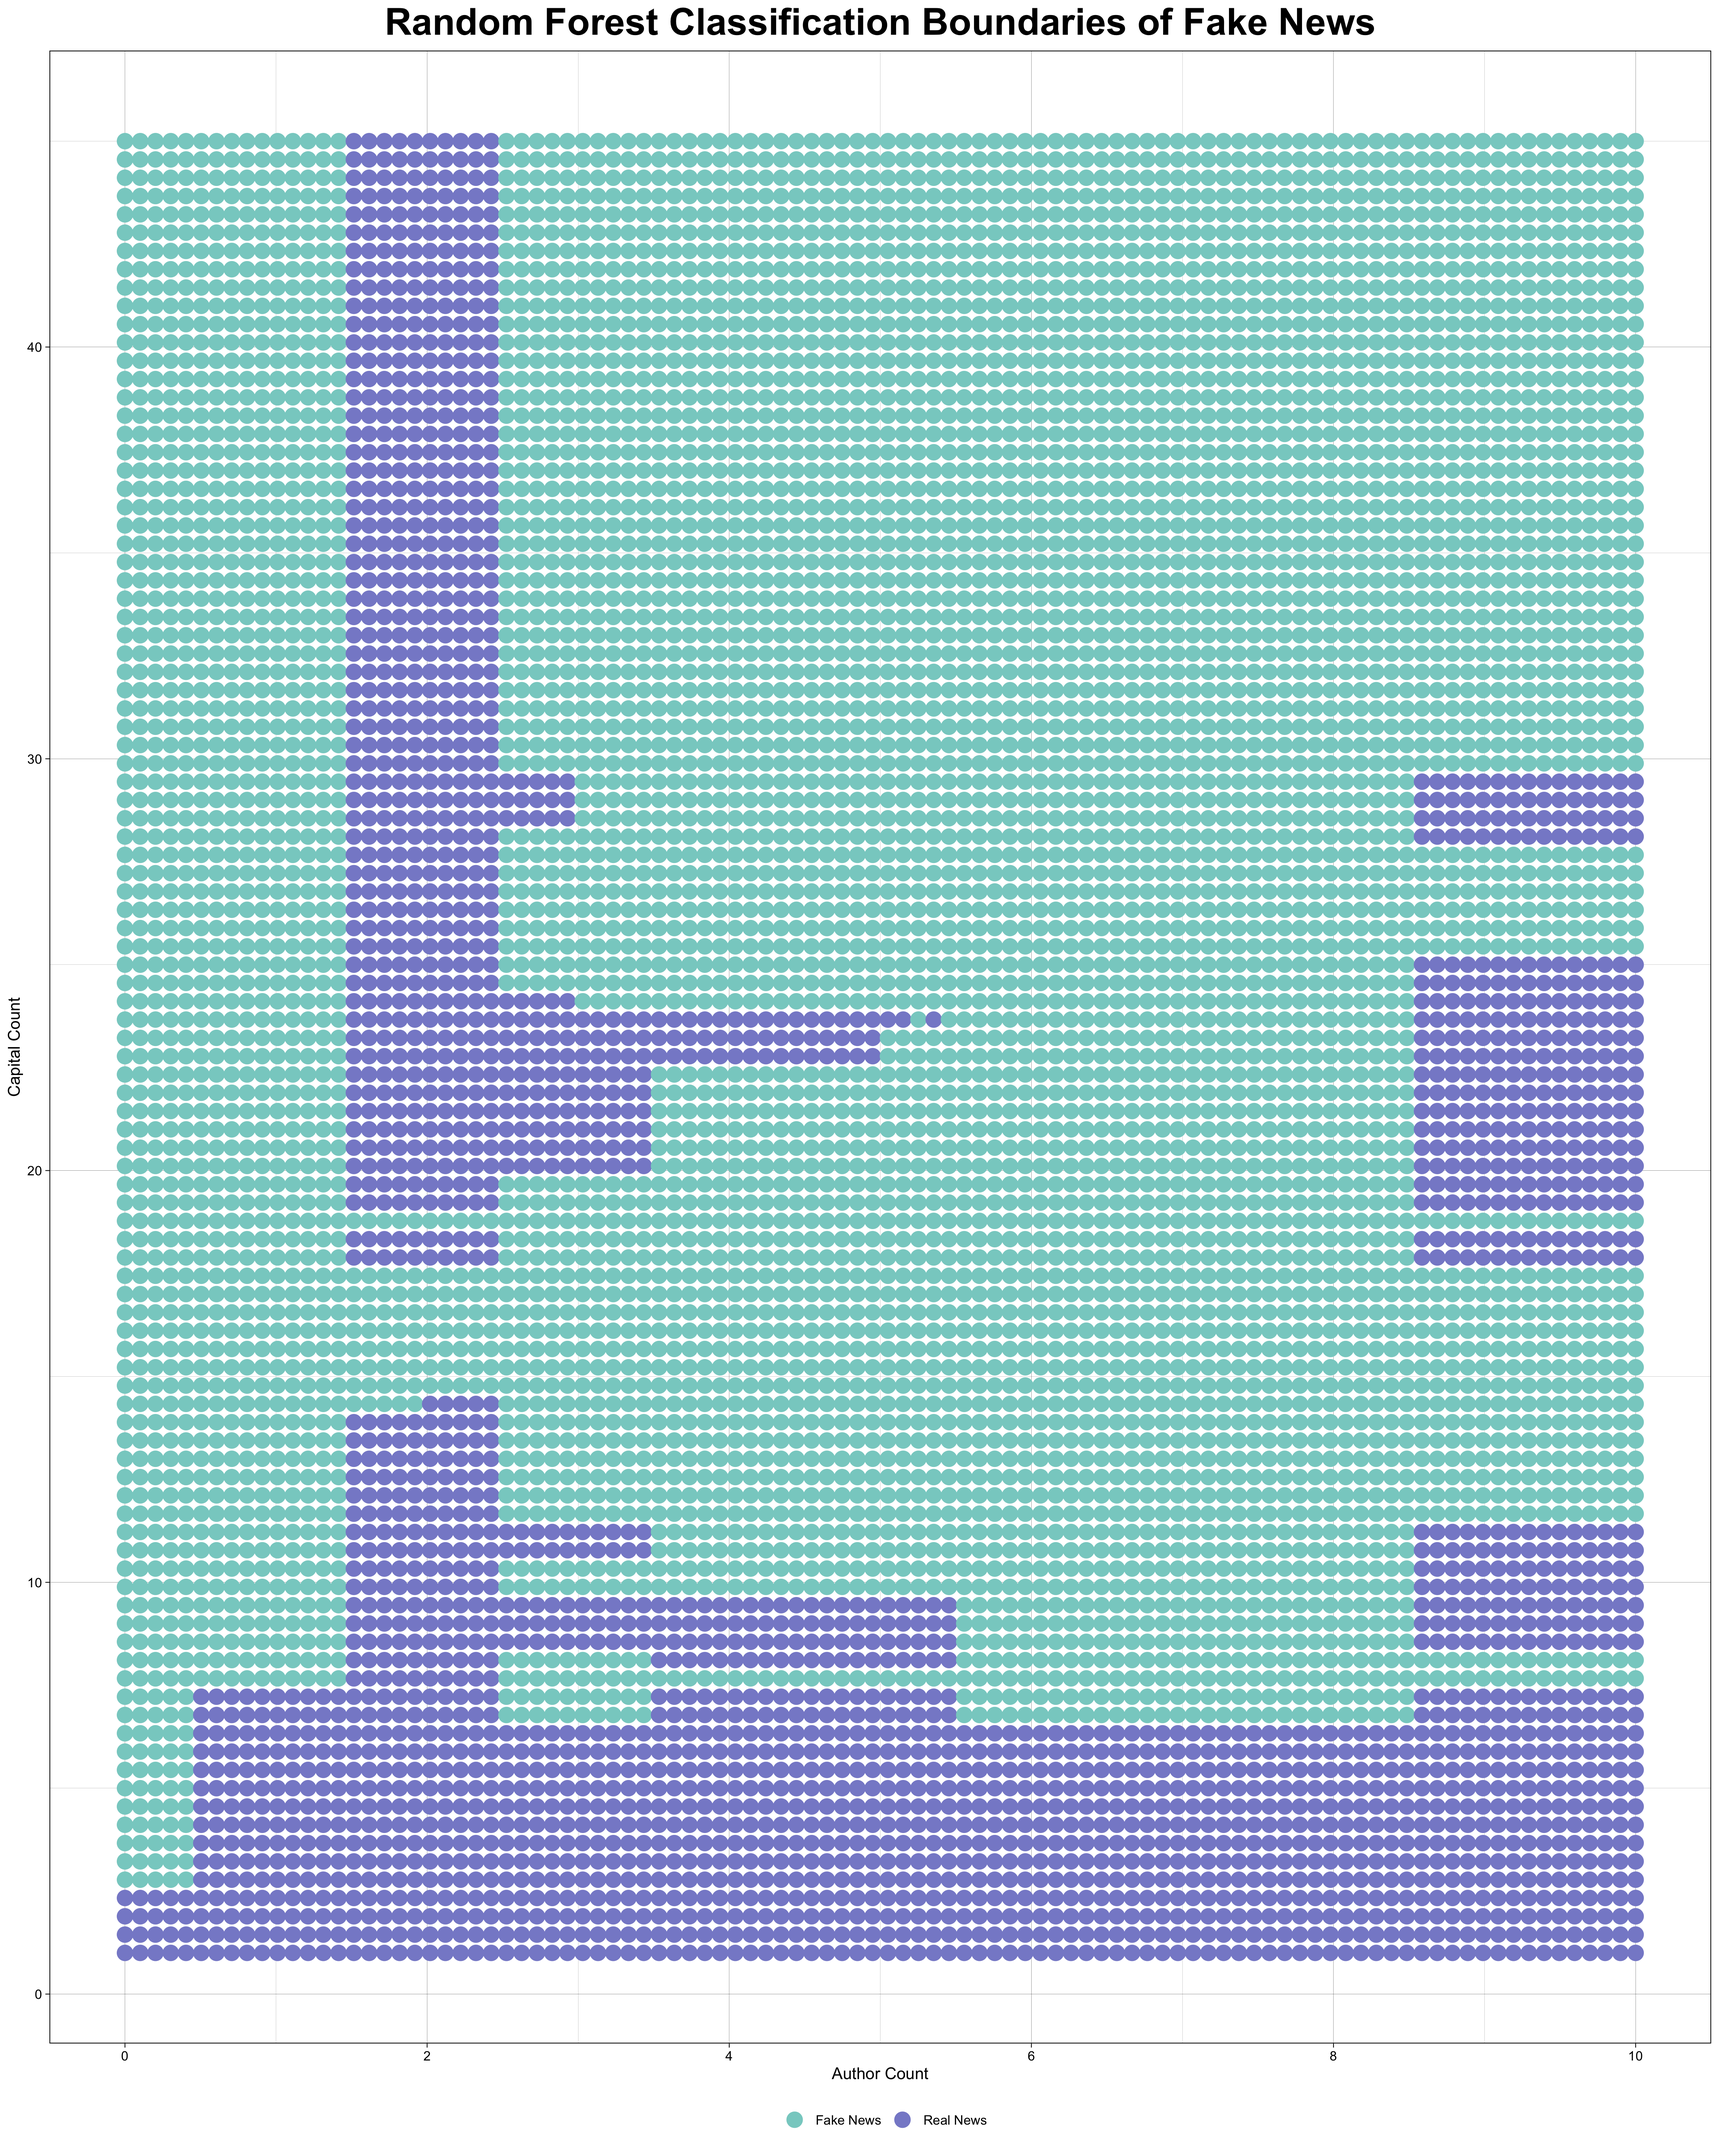
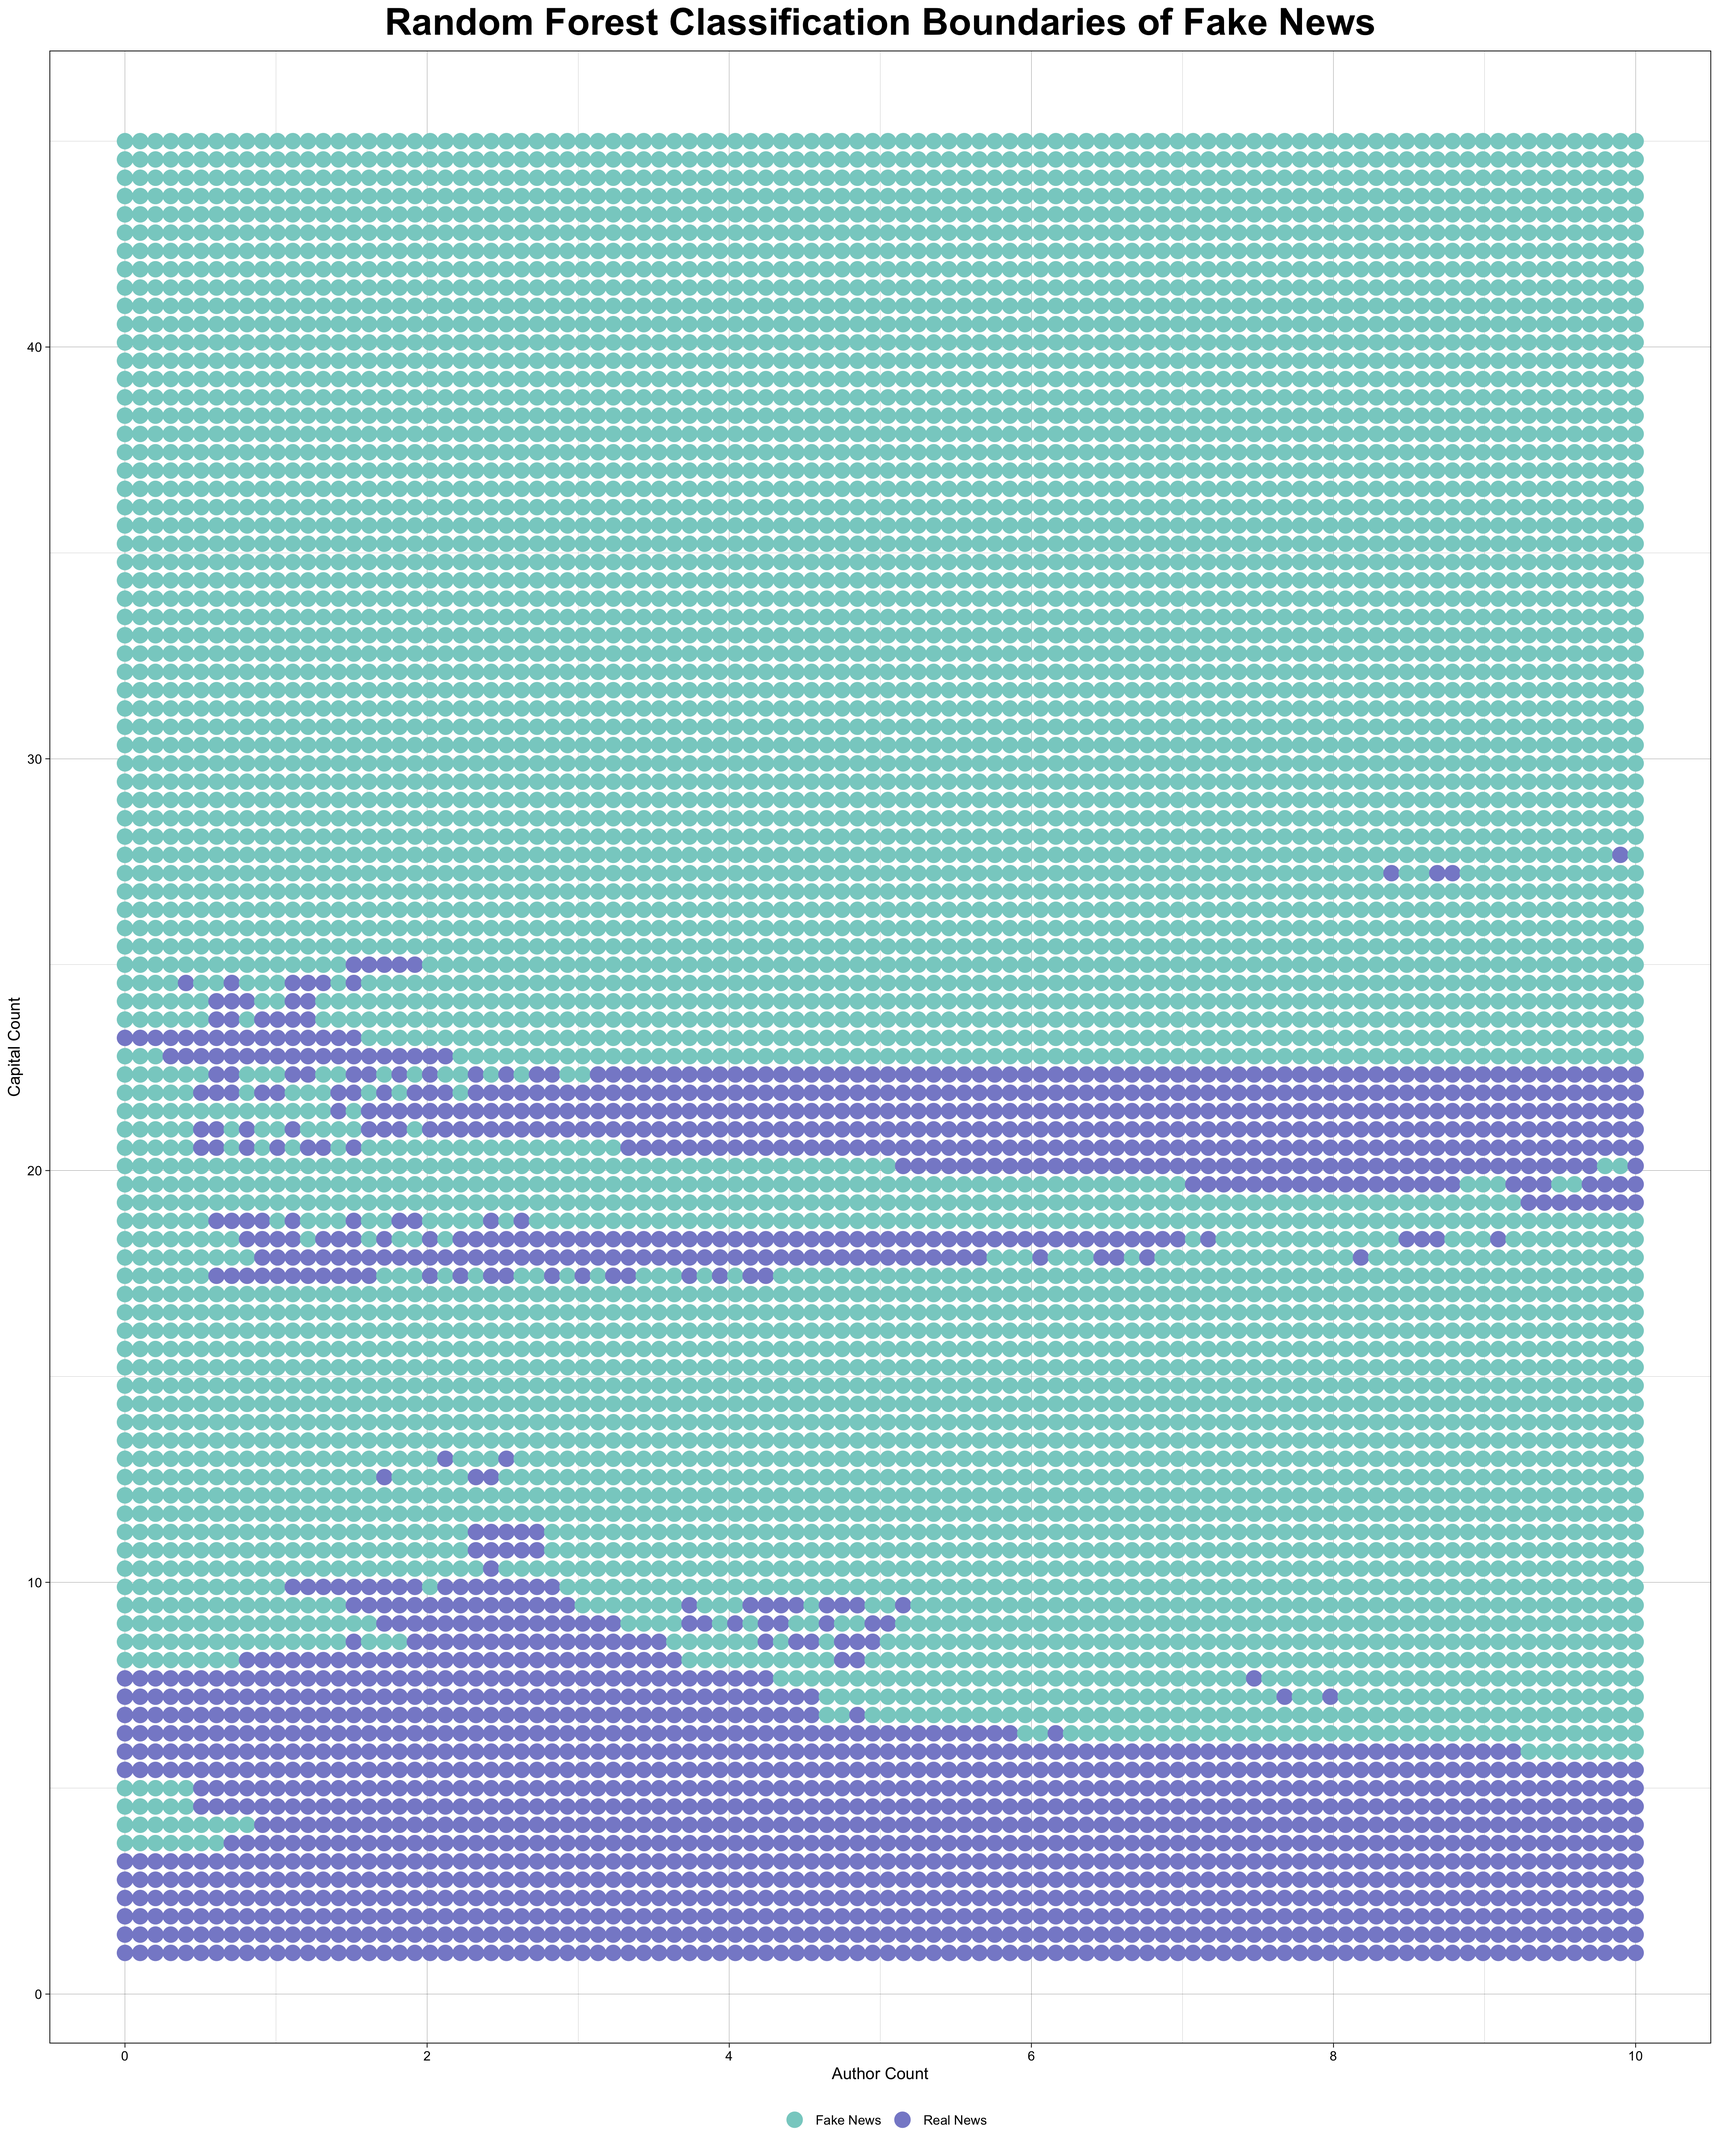
updated KNN

diff --git a/content/project/fakenews/index.md b/content/project/fakenews/index.md
@@ -3,11 +3,17 @@
 
 title: "So Fake it's Californian"
 summary: "Applying Random Forests, KNN Regression, & Sentiment Analysis to the Detection of Fake News"
-authors: []
+authors: [Freddy Barragan]
 tags: 
 - Data Science
 categories: []
 date: 2019-11-02T14:47:00-05:00
 ---
 
-Under construction. Womp. Womp.
+Fake news has disastrous effects. In the U.S., it has resulted in dangerous [anti-mask misinformation]("https://www.boomlive.in/world/anti-mask-posts-use-fake-who-document-to-spread-misinformation-9424") and an increased risk of COVID-19 transmission; [unfounded, child-trafficking allegations on the 2016 democratic ballot]("https://www.politifact.com/article/2016/dec/05/how-pizzagate-went-fake-news-real-problem-dc-busin/"); and [smear campaigns on antifascist organizers, during the George Floyd protests]("https://www.reuters.com/article/uk-factcheck-antifa-twitter-fake/fact-check-antifa-twitter-account-that-called-for-violence-was-fake-idUSKBN23B2TY"). And given its omnipresence in digital space, it's critical that we are able to identify, remove, and prevent fake news as stringently as possible.
+
+Leveraging sentiment analysis of real news articles & random forests for variable selection, I built a powerful, low-dimensional, fake news-classifier with KNN regression (K=5, 78\% 10-fold CV accuracy). Typically, KNN is difficult to interpret and even more difficult to implement when using data with a large number of potential predictors. However, the benefits of a random forest for variable selection have allowed us to create a very simple model which correctly accounts for the nonparametric relationship between validity and its predictors. Most importantly, this model allows to correctly flag and identify fake news articles with a very low false-negative rate, thus minimizing the spread of potentially dangerous information. 
+
+Though these methods are robust, using sentiment analysis and string counting to predict a news article's validity will not produce the perfect results without more details that were not at our disposal. In most cases, fake news circulates through social media channels (e.g. Twitter, Reddit, Facebook, etc.) and is primarily communicated in videos, photos, and in slang. By doing so, we are making a very particular assumption about English fluency with text analysis which fails when we consider the millions of people who speak a dialect of English or English as second language. How can this text analysis correctly classify the melding of dialects, languages, and slangs to produce equitable classifications of fake news on a broader scale?
+
+ Data preparation & exploratory analysis was a collaborative effort between my friends \& classmates Juthi Dewan, Franco Salinas Meza, Hannah Staats, Kyaw Za Zaw, and Danny Frank-Siegel.
